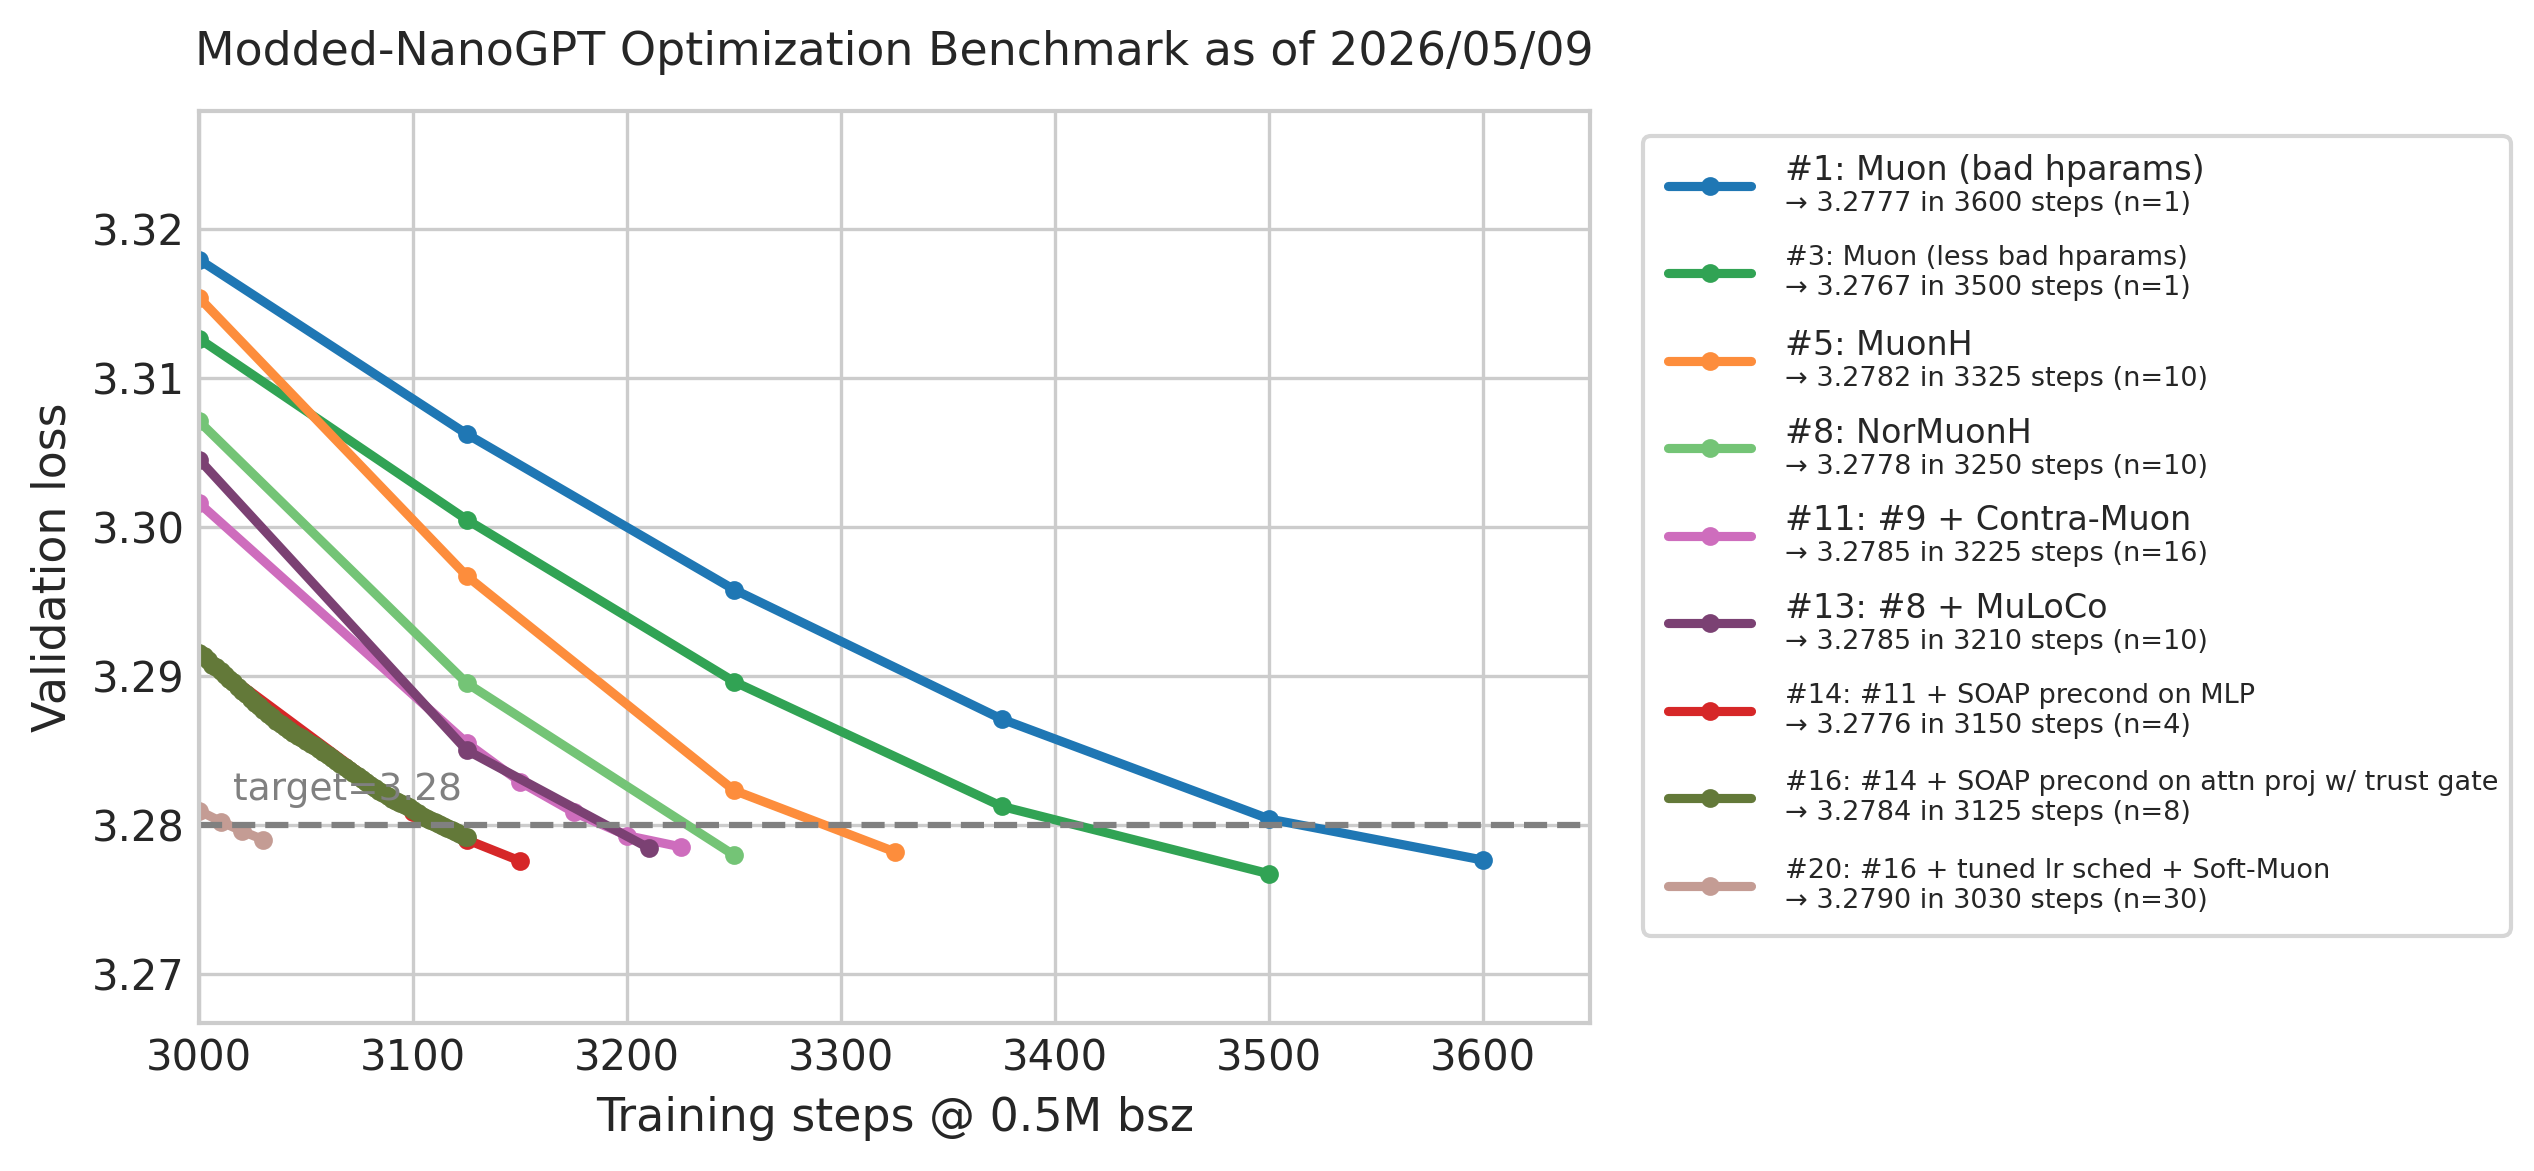
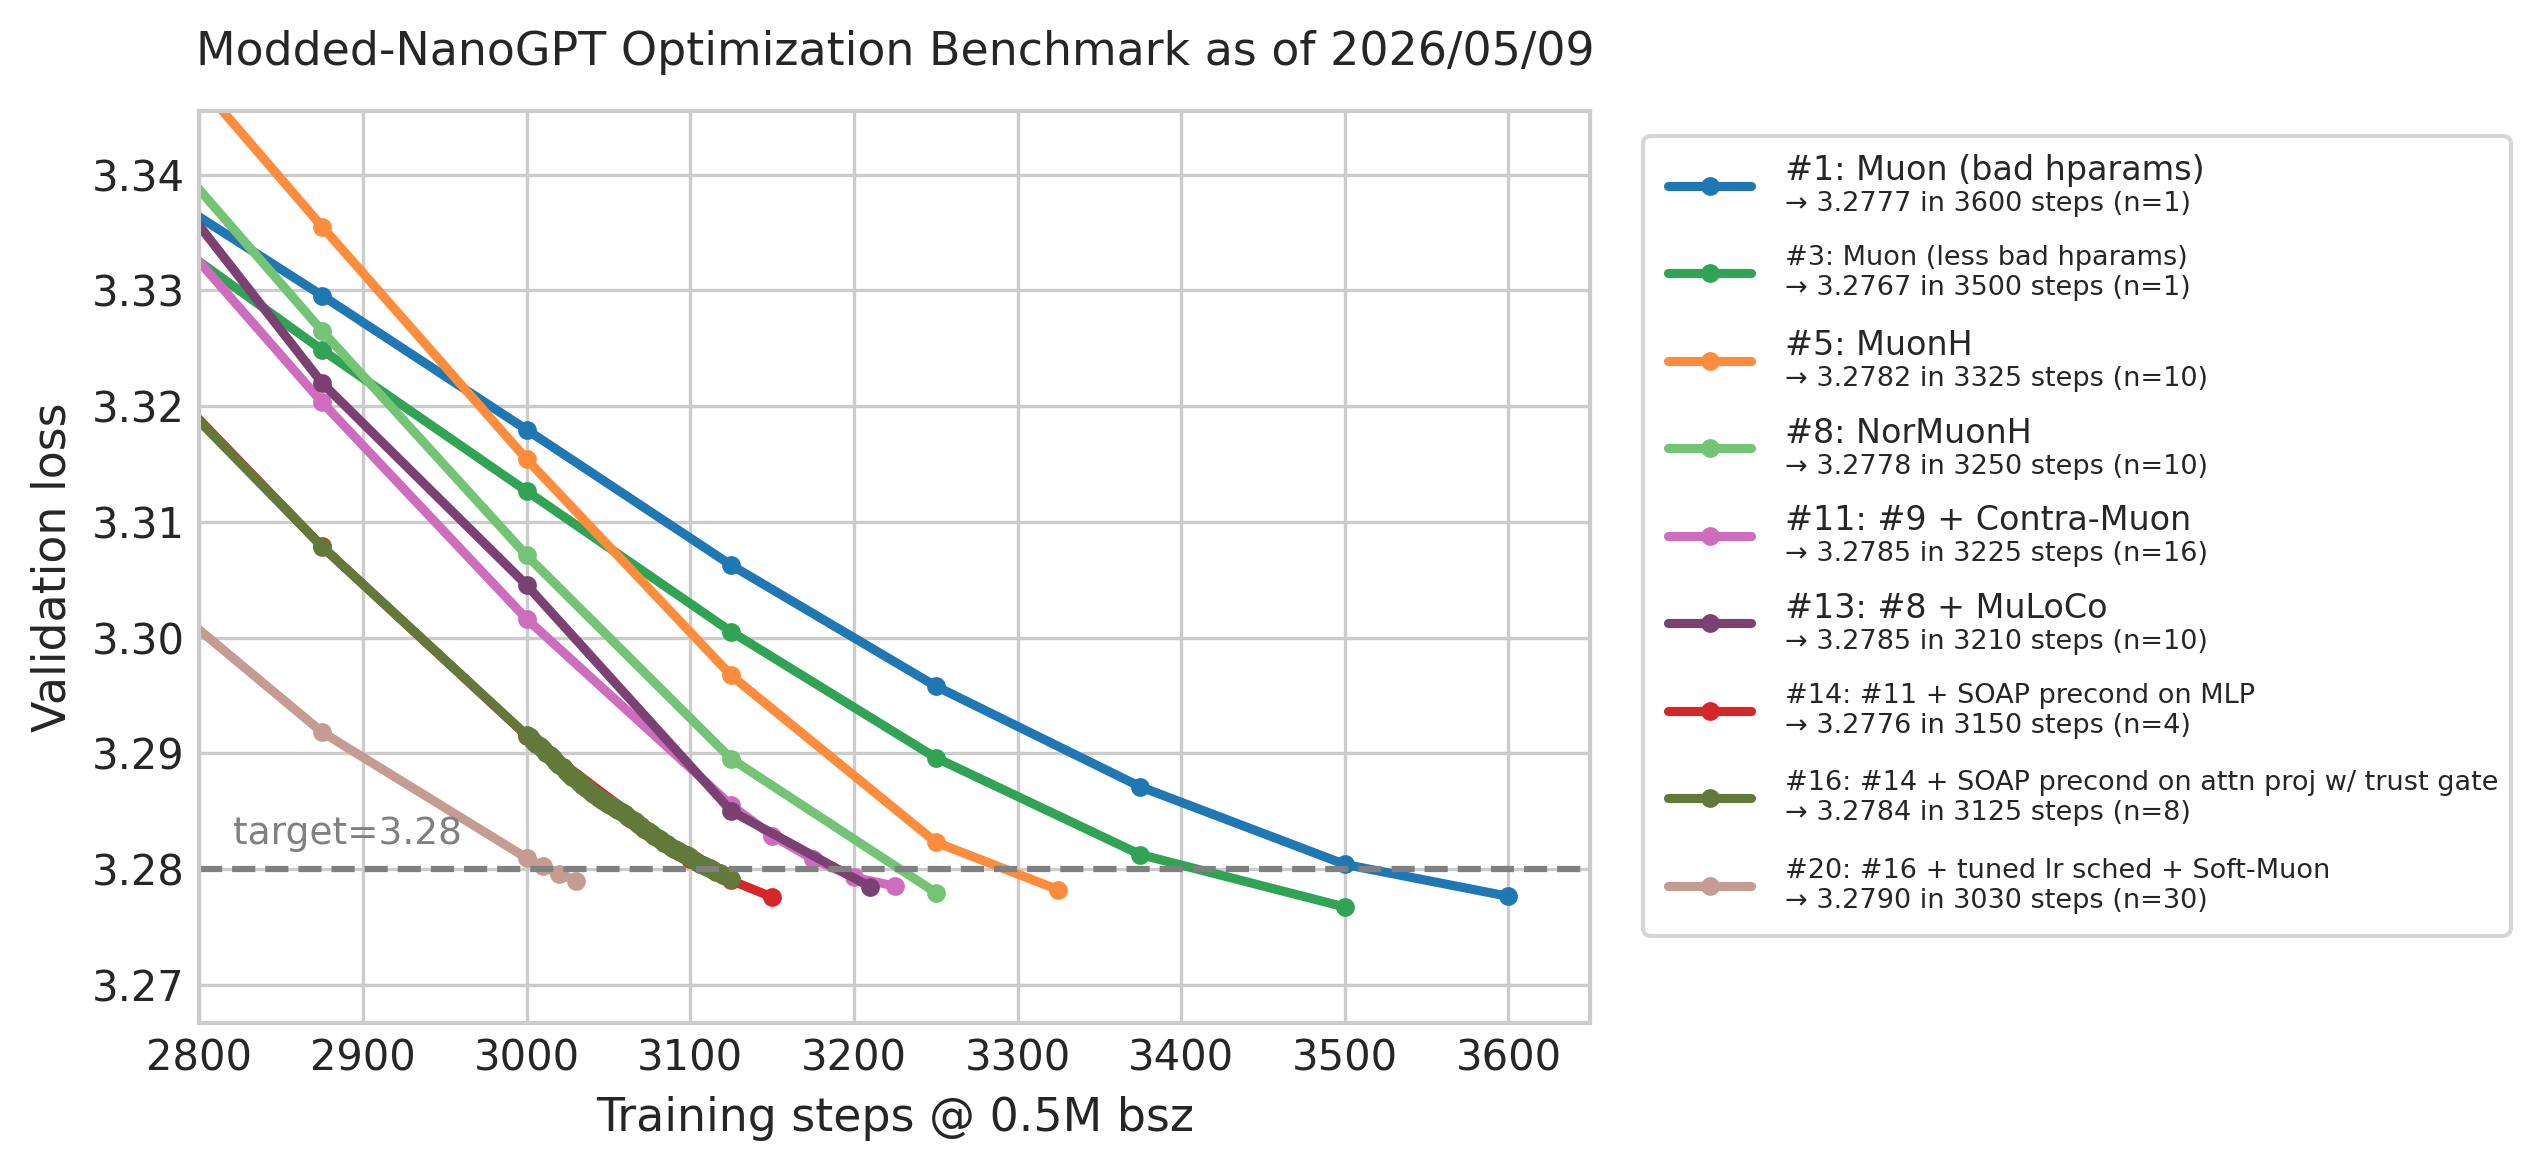
.

diff --git a/records/track_3_optimization/make_figures.py b/records/track_3_optimization/make_figures.py
@@ -230,7 +230,7 @@ for suffix in ["wr", "best"]:
     fig.savefig(f'img/figure_{suffix}.png', bbox_inches='tight', bbox_extra_artists=[legend])
 
     # Generate zoomed-in figure
-    zoom_min_step = 3000
+    zoom_min_step = 2800
     zoom_max_step = {"wr": 3650, "best": 3400}[suffix]
     zoom_results = [
         result for result in results.values()
